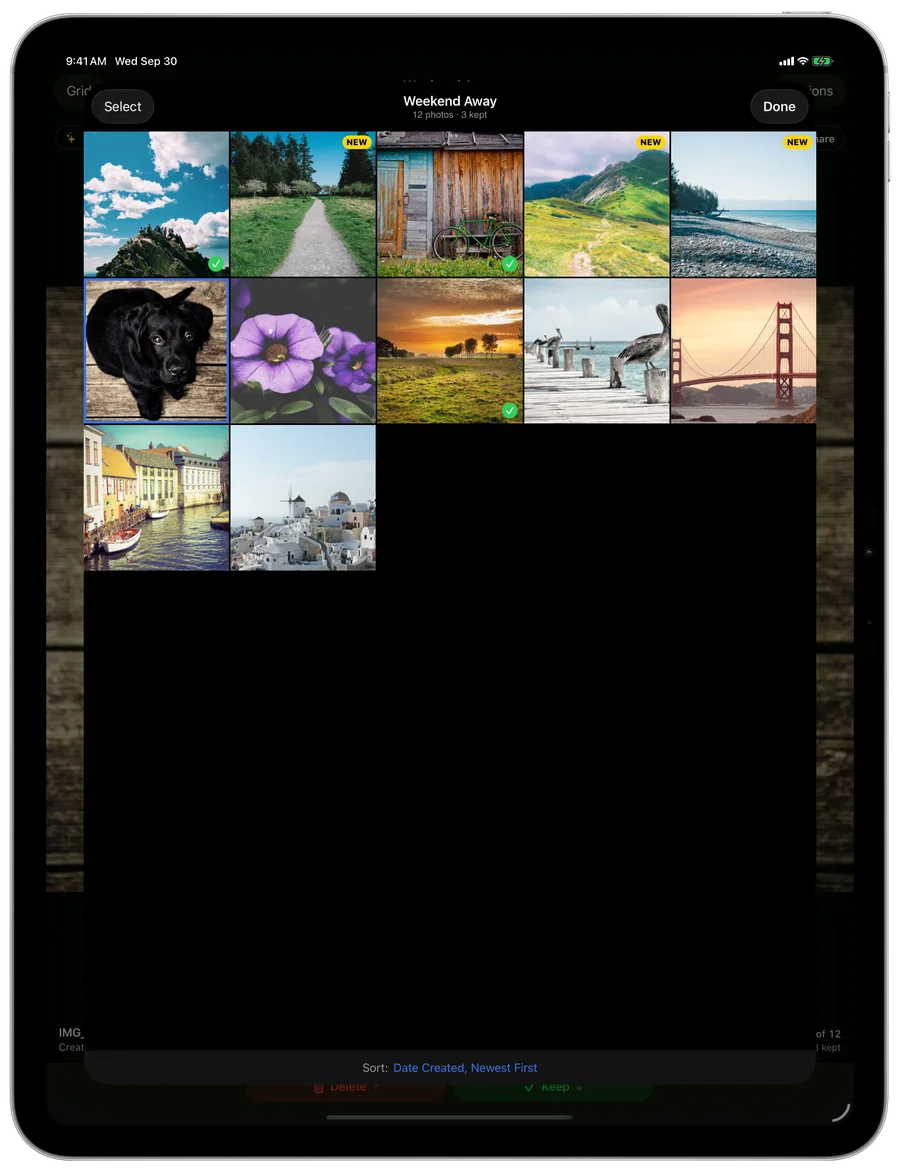
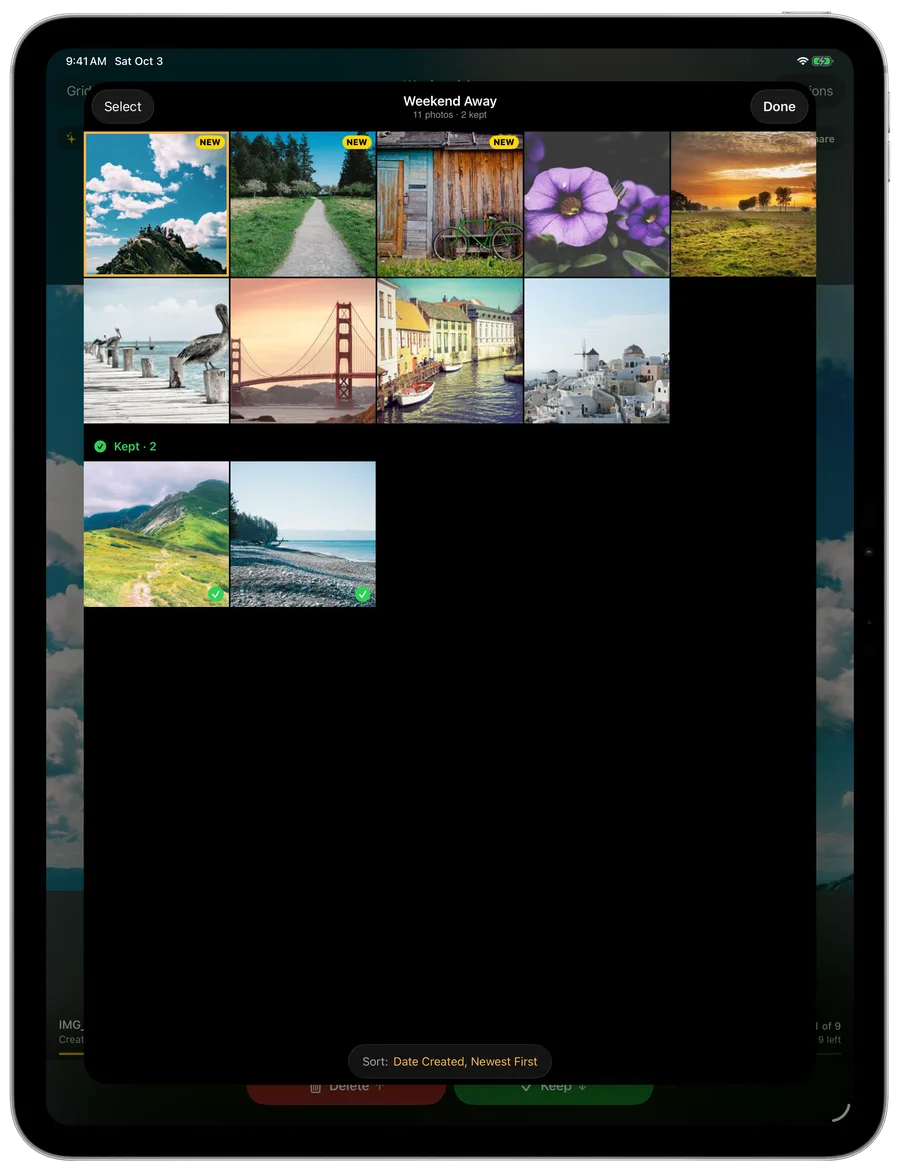
New-look screenshots

Changed region(s): [[0.0311, 0.0307, 0.9644, 0.9199], [0.28, 0.8893, 0.7467, 0.9813], [0.9022, 0.8586, 0.9333, 0.8893]]

diff --git a/index.html b/index.html
@@ -104,7 +104,7 @@
 </section>
 
 <section class="compare flip">
-  <figure><img src="img/ipad-04-new.webp" alt="An iPad showing a photo of a puppy, with a yellow note at the top: 3 new since your last visit, Show" width="900" height="1174" loading="lazy"></figure>
+  <figure><img src="img/ipad-04-new.webp" alt="An iPad showing a photo of purple flowers, with a yellow note at the top: 3 new since your last visit, Show" width="900" height="1174" loading="lazy"></figure>
   <div>
     <p class="eyebrow">Folders that keep filling up</p>
     <h2>Come back next month. It knows what's new.</h2>
@@ -118,14 +118,14 @@
 </section>
 
 <section class="shots" aria-label="Screens from the app on iPhone">
-  <figure><img src="img/iphone-01-viewer.webp" alt="A photo of a beach from the folder Weekend Away, with its name, date, 3 of 10, 2 deleted 2 kept, and Delete and Keep buttons below" width="620" height="1268" loading="lazy"><figcaption>One photo at a time, with a running count</figcaption></figure>
-  <figure><img src="img/iphone-02-select.webp" alt="The folder as a grid with three photos selected and buttons for Delete 3, Keep 3, Compare and Share" width="620" height="1268" loading="lazy"><figcaption>Select a few, then deal with them together</figcaption></figure>
-  <figure><img src="img/iphone-03-compare.webp" alt="Two photos stacked on an iPhone to compare, each with Keep Only This, Delete and Keep" width="620" height="1268" loading="lazy"><figcaption>Compare on iPhone: stacked, or side by side</figcaption></figure>
+  <figure><img src="img/iphone-01-viewer.webp" alt="A photo of a mountain top being dragged down, with a green Keep badge, and the count 1 deleted, 2 kept, 9 left" width="620" height="1265" loading="lazy"><figcaption>One photo at a time, with a running count</figcaption></figure>
+  <figure><img src="img/iphone-02-select.webp" alt="The folder as a grid with three photos selected and buttons for Delete 3, Keep 3, Compare and Share" width="620" height="1265" loading="lazy"><figcaption>Select a few, then deal with them together</figcaption></figure>
+  <figure><img src="img/iphone-03-compare.webp" alt="Two photos stacked on an iPhone to compare, each with Keep Only This, Delete and Keep" width="620" height="1265" loading="lazy"><figcaption>Compare on iPhone: stacked, or side by side</figcaption></figure>
 </section>
 
 <section class="shots two" aria-label="Screens from the app on iPad">
-  <figure><img src="img/ipad-01-viewer.webp" alt="A mountain photo filling an iPad screen, with Delete and Keep below" width="900" height="1174" loading="lazy"><figcaption>On iPad, every photo gets the whole screen</figcaption></figure>
-  <figure><img src="img/ipad-02-grid-new.webp" alt="The folder as a grid on iPad, three photos tagged NEW and three marked kept" width="900" height="1174" loading="lazy"><figcaption>The grid marks what's new and what you kept</figcaption></figure>
+  <figure><img src="img/ipad-01-viewer.webp" alt="A photo filling an iPad screen mid-swipe with a green Keep badge, and Delete and Keep below" width="900" height="1174" loading="lazy"><figcaption>On iPad, every photo gets the whole screen</figcaption></figure>
+  <figure><img src="img/ipad-02-grid-new.webp" alt="The folder as a grid on iPad, three photos tagged NEW and two kept photos under a Kept heading" width="900" height="1174" loading="lazy"><figcaption>The grid marks what's new and what you kept</figcaption></figure>
 </section>
 
 <section class="features">
